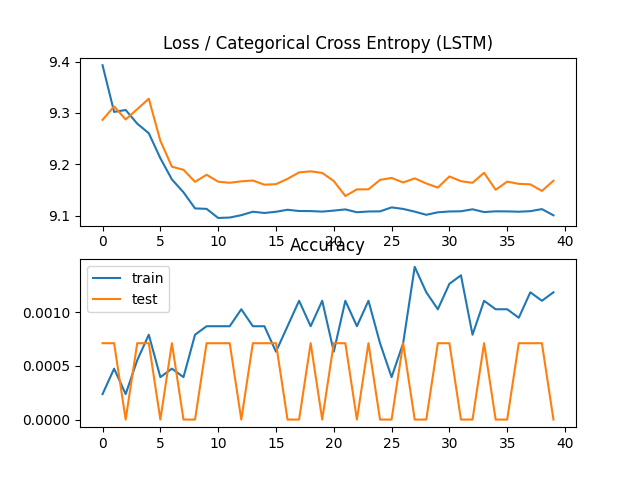
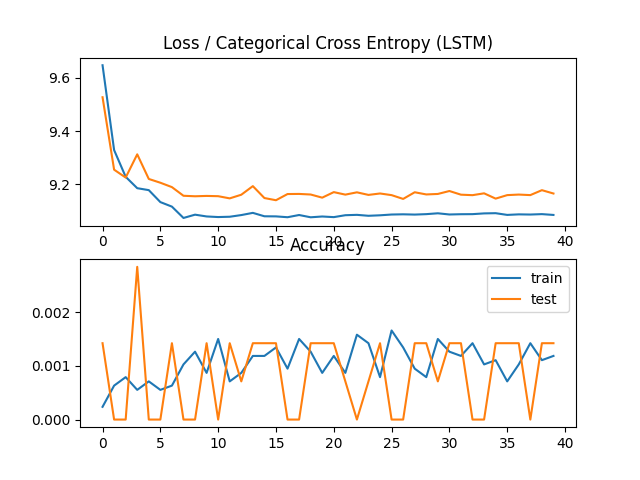
Update readme.md

diff --git a/src/Trainers/LSTM_Trainer.py b/src/Trainers/LSTM_Trainer.py
@@ -68,7 +68,7 @@ class lstm_trainer:
         print("Set model")
         # compile the layers to model
 
-        plot_model(self.model, to_file='../plots/dense_neural_network.png', show_shapes=True, show_layer_names=True)
+        plot_model(self.model, to_file='../plots/lstm_neural_network.png', show_shapes=True, show_layer_names=True)
 
         self.model.compile(optimizer=optimizer, loss='categorical_crossentropy', metrics=['accuracy'])
         print("Compile model")

diff --git a/readme.md b/readme.md
@@ -67,14 +67,19 @@ two hidden layers.
 Testing loss : 9.344161033630371; accuracy: 0.04831332340836525
 </pre>
 
+![plot_RacingPredictionTraining_dense.png](plots%2Fplot_RacingPredictionTraining_dense.png)
+
 ### ii. LSTM Layer ###
 Long Short-Term Memory is well-designed for modeling sequences and time-series data. LSTMs are designed to overcome 
 the limitations of traditional RNNs by incorporating memory cells that can maintain information over long periods.
 
-
+![lstm_neural_network.png](plots%2Flstm_neural_network.png)
 
 <pre>
 Testing loss : 9.166614532470703; accuracy: 0.0014212620444595814
 </pre>
 
+![RacingPredictionTraining_LSTM.png](plots%2FRacingPredictionTraining_LSTM.png)
+
 ## 5. Output ##
+